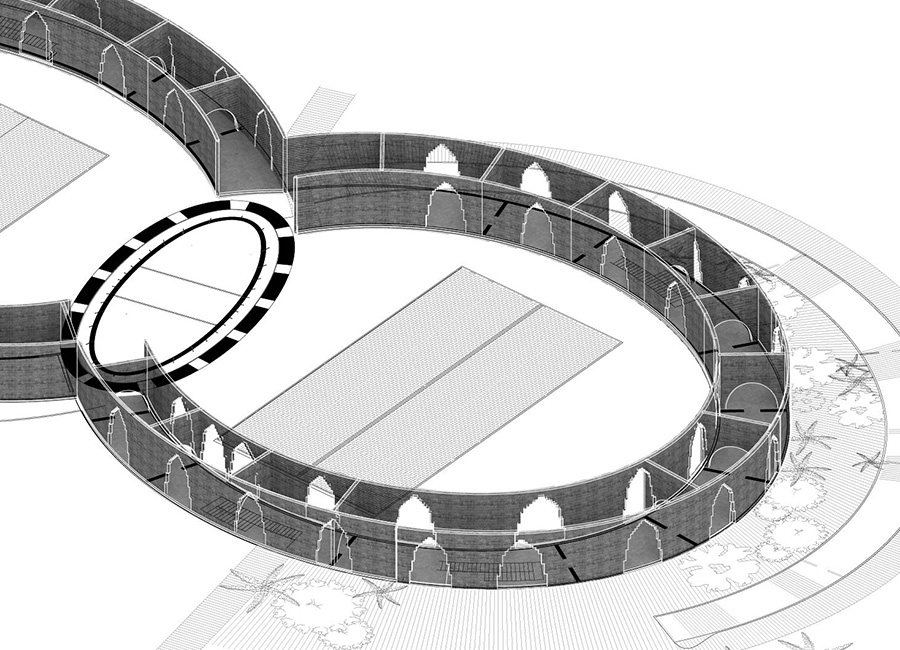
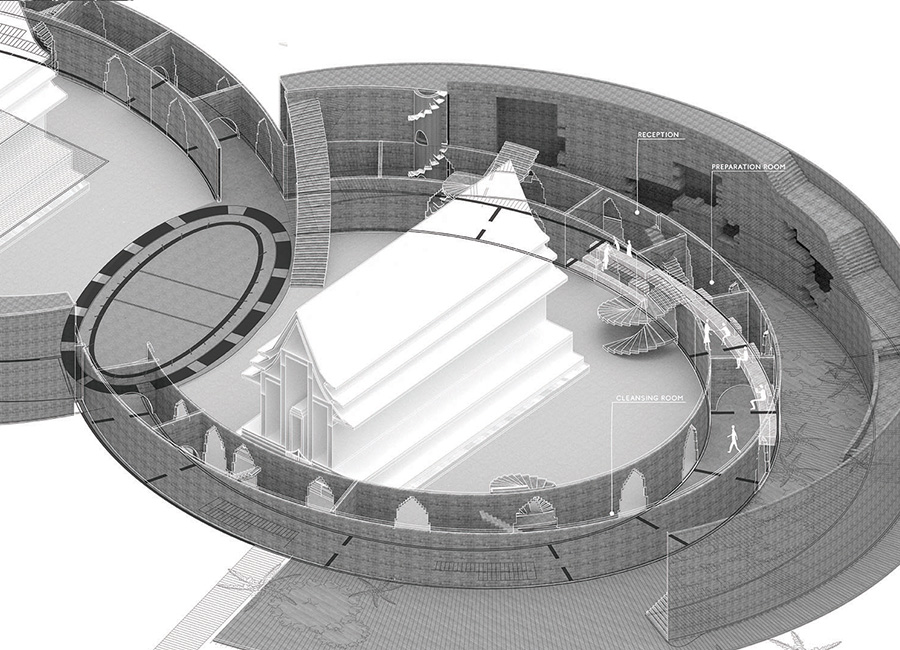
kokocrunsh

diff --git a/sanctuarys.html b/sanctuarys.html
@@ -143,25 +143,40 @@
             </div>
         </div>
 
-        <!--Define and Ideate -->
+        <!--Define -->
 
         <div class="project-header" id="Define">
             <p class="text-center">Define</p>
             <p class="display-8">
                 <b class="display-7">Challenges: </b>
-                Based on the research, In the past, temples served as multifaceted hubs for not only religious
-                activities but also educational centers, tourist attractions, art conservatories, warehouses, and more.
-                However, in the present generation, people's connection to temples has waned, and instead, they are more
-                inclined to connect with Wi-Fi, leading to the abandonment of some temples.
+                Research shows that in the past, temples were multifunctional, serving not just as religious sites but
+                also as educational centers, tourist attractions, art conservatories, and storage spaces. Today, people
+                are less connected to temples and more focused on Wi-Fi, resulting in the abandonment of some temples.
             </p>
             <p class="display-8">
                 <b class="display-7">Pain Points: </b>
-                The lost in connection between temple and thai people <br>-The idea of going to temple has been view as
-                "ineffectual" and out dated - The designed of temples doesn't match today life.
+            <div class="row display-7">
+                <div class="col col-md-4">
+                    <ul>
+                        <li>The lost in connection between temple and thai people</li>
+                    </ul>
+                </div>
+                <div class="col col-md-4">
+                    <ul>
+                        <li>The idea of going to temple has been view as
+                            "ineffectual" and out dated</li>
+                    </ul>
+                </div>
+                <div class="col col-md-4">
+                    <ul>
+                        <li>The designed of temples doesn't match today life</li>
+                    </ul>
+                </div>
+            </div>
             </p>
-             <div class="row tile">
+            <div class="row tile">
                 <iframe
-                    src="https://docs.google.com/presentation/d/e/2PACX-1vQqnkk4n9NA3BSfPlPl18CJxESVLNQwynjWhboVNBjj8JStAsJrMPDp2HIp-AP3zt74fHtvwWHaycA7/embed?start=false&loop=false&delayms=3000" 
+                    src="https://docs.google.com/presentation/d/e/2PACX-1vQqnkk4n9NA3BSfPlPl18CJxESVLNQwynjWhboVNBjj8JStAsJrMPDp2HIp-AP3zt74fHtvwWHaycA7/embed?start=false&loop=false&delayms=3000"
                     frameborder="0" width="960" height="569" allowfullscreen="true" mozallowfullscreen="true"
                     webkitallowfullscreen="true"></iframe>
             </div>
@@ -172,80 +187,58 @@
         <div class="project-header" id="Ideate">
             <p class="text-center">Ideate</p>
             <p class="display-8">
-                TBC.
+                During the ideation phase, I generated multiple solutions to address the identified pain points, one of which involved creating architectural designs by diversifying a single model into various forms
             </p>
 
         </div>
         <div class="row tile">
-            <div class="col-md-4 col-sm-4 tile-item tile" data-bs-toggle="modal" data-bs-target="#workCarouselModal"
-                data-bs-set-active="slide1">
-                <div class="tile-item-caption d-flex align-items-center justify-content-center h-100 w-100 text-white">
-                </div>
-                <img class="img-fluid tile-image" src="assets/img/portfolio/chinat/ct_mock1.png" alt="..." />
+            <div class="col-md-4 chinatown-tile">
+                <img class="img-fluid tile-image" src="assets/img/portfolio/ss/sspp1.jpg" alt="..." />
             </div>
-            <div class="col-md-4 col-sm-4 tile-item tile" data-bs-toggle="modal" data-bs-target="#workCarouselModal"
-                data-bs-set-active="slide2">
-                <div class="tile-item-caption d-flex align-items-center justify-content-center h-100 w-100 text-white">
-                </div>
-                <img class="img-fluid tile-image" src="assets/img/portfolio/chinat/ct_mock2.png" alt="..." />
+            <div class="col-md-4 chinatown-tile">
+                <img class="img-fluid tile-image" src="assets/img/portfolio/ss/sspp2.jpg" alt="..." />
             </div>
-            <div class="col-md-4 col-sm-4 tile-item tile" data-bs-toggle="modal" data-bs-target="#workCarouselModal"
-                data-bs-set-active="slide2">
-                <div class="tile-item-caption d-flex align-items-center justify-content-center h-100 w-100 text-white">
-                </div>
-                <img class="img-fluid tile-image" src="assets/img/portfolio/chinat/ct_mock3.png" alt="..." />
+            <div class="col-md-4 chinatown-tile">
+                <img class="img-fluid tile-image" src="assets/img/portfolio/ss/sspp3.jpg" alt="..." />
             </div>
+            <div class="col-md-4 chinatown-tile">
+                <img class="img-fluid tile-image" src="assets/img/portfolio/ss/sspp4.jpg" alt="..." />
+            </div>
+            <div class="col-md-4 chinatown-tile">
+                <img class="img-fluid tile-image" src="assets/img/portfolio/ss/sspp5.jpg" alt="..." />
+            </div>
+            <div class="col-md-4 chinatown-tile">
+                <img class="img-fluid tile-image" src="assets/img/portfolio/ss/sspp6.jpg" alt="..." />
+            </div>
+            
         </div>
         <!-- Mock up -->
 
         <div class="project-header" id="Prototype">
             <p class="text-center">Prototype and Sketches</p>
             <p class="display-8">
-                The abandoned temple has left with these 2 existing sanctuaries which I decided to keep and create
-                symmetrical enclosure space around them to create a clear boundary line and set up a clear architecture
-                hierarchy.
+                I preserved the two existing sanctuaries in the abandoned temple and enclosed them with a symmetrical
+                space to establish clear architectural boundaries.<br> The outer ring features green spaces, creating a
+                protective shield from the chaos of the outside world.
             </p>
-            <div class="row tile">
-                <div class="col-md-12 tile-item tile" data-bs-toggle="modal" data-bs-target="#workCarouselModal"
-                    data-bs-set-active="slide1">
-                    <div
-                        class="tile-item-caption d-flex align-items-center justify-content-center h-100 w-100 text-white">
-                    </div>
-                    <img class="img-fluid tile-image" src="assets/img/portfolio/ss/ss02.jpg" alt="..." />
-                </div>
+           
+            <div class="col-md-12 chinatown-tile">
+                <img class="img-fluid tile-image" src="assets/img/portfolio/ss/sspp7.jpg" alt="..." />
             </div>
-            <p class="display-8">
-                On the 2nd outer ring, there are green spaces that create a kind of green shield protecting people
-                inside to the chaotic outer world.
-            </p>
-            <div class="row tile">
-                <div class="col-md-12 tile-item tile" data-bs-toggle="modal" data-bs-target="#workCarouselModal"
-                    data-bs-set-active="slide1">
-                    <div
-                        class="tile-item-caption d-flex align-items-center justify-content-center h-100 w-100 text-white">
-                    </div>
+                <div class="col-md-12 chinatown-tile">
                     <img class="img-fluid tile-image" src="assets/img/portfolio/ss/sneakpeek01.jpg" alt="..." />
                 </div>
-            </div>
-            <p class="display-8">
-
-                Zooming to the floor plan,( 2nd floor plan) ,the architecture is basically made out of 2 rings which are
-                the inner and outer ring.
-                On the inner ring I decide to use the wall as room.
-
-                By doing so ,people inside the room would be cut off from the internet,forcing them to focus on the
-                present surroundings or themselves
-            </p>
-            <div class="row tile">
-                <div class="col-md-12 tile-item tile" data-bs-toggle="modal" data-bs-target="#workCarouselModal"
-                    data-bs-set-active="slide1">
-                    <div
-                        class="tile-item-caption d-flex align-items-center justify-content-center h-100 w-100 text-white">
-                    </div>
-                    <img class="img-fluid tile-image" src="assets/img/portfolio/ss/ss01.jpg" alt="..." />
+                <div class="col-md-12 chinatown-tile">
+                    <img class="img-fluid tile-image" src="assets/img/portfolio/ss/ss02.jpg" alt="..." />
                 </div>
+            <p class="display-8">
+                In the 2nd-floor plan, the architecture consists of two rings: an inner and an outer ring. The inner
+                ring is designed with walls to create rooms, disconnecting people from the internet and encouraging them
+                to focus on their surroundings and themselves.
+            </p>
+            <div class="col-md-12 chinatown-tile">
+                <img class="img-fluid tile-image" src="assets/img/portfolio/ss/ss01.jpg" alt="..." />
             </div>
-
         </div>
 
         <!-- Final -->
@@ -255,26 +248,69 @@
             <div class="project-header">
                 <p class="text-center">Final</p>
             </div>
-            
+
             <p class="text-center">
-                <b class="">The outer ring: </b>
-                The main entrance is an elevated ramp, providing both an escape from the outside world and a space for people to interact with the design.
+                <b class="">The outer rings: </b>
+                The main entrance is an elevated ramp, providing both an escape from the outside world and a space for
+                people to interact with the design.
             </p>
             <div class="col-md-6 chinatown-tile">
-                <img class="img-fluid tile-image" src="assets/img/portfolio/ss/ss01.jpg" alt="..." />
+                <img class="img-fluid tile-image" src="assets/img/portfolio/ss/ssfinal01.jpg" alt="..." />
             </div>
             <div class="col-md-6 chinatown-tile">
                 <img class="img-fluid tile-image" src="assets/img/portfolio/ss/ssfinal02.jpg" alt="..." />
             </div>
-            <p class="text-center">
+            <p class="text-center mt-5 mb-5">
                 <b class="">The clense room: </b>
-                Once they are inside the inner ring, they are forced to go through the cleansing process. Which include the reception where they must sign in ,the preparation room in which they are gonna be offered some tea, and relax and detox from the inside out. Then the cleanse room where they have to clean up and change their cloth., This process is preparing them for a world without the internet
+                After entering the inner ring, visitors undergo a cleansing process, starting with a reception where they sign in. Next, they proceed to the preparation room for tea, relaxation, and detoxification. Finally, in the cleanse room, they change their clothes and clean up, all in preparation for a Wi-Fi-free environment
             </p>
             <div class="col-md-12 chinatown-tile">
                 <img class="img-fluid tile-image" src="assets/img/portfolio/ss/ssfinal03.jpg" alt="..." />
             </div>
             <div class="col-md-12 chinatown-tile">
                 <img class="img-fluid tile-image" src="assets/img/portfolio/ss/ssfinal04.jpg" alt="..." />
+            </div>
+            <p class="text-center mt-5 mb-5">
+                <b class="">The inner rings: </b>
+                After completing the cleaning process, visitors can explore hidden rooms in the wall, each offering unique experiences. Some rooms allow users to engage with different sounds, corresponding to the changing ambiance throughout the day and night
+            </p>
+            <p class="text-center">Light engagement</p>
+            <div class="col-md-6 chinatown-tile">
+                <img class="img-fluid tile-image" src="assets/img/portfolio/ss/ssfinal05.jpg" alt="..." />
+            </div>
+            <div class="col-md-6 chinatown-tile">
+                <img class="img-fluid tile-image" src="assets/img/portfolio/ss/ssfinal06.jpg" alt="..." />
+            </div>
+            <div class="col-md-12 chinatown-tile">
+                <img class="img-fluid tile-image" src="assets/img/portfolio/ss/ssfinal09.gif" alt="..." />
+            </div>
+            <p class="text-center mt-5 mb-3">Sounds engagement</p>
+            <div class="col-md-6 chinatown-tile">
+                <img class="img-fluid tile-image" src="assets/img/portfolio/ss/ssfinal07.jpg" alt="..." />
+            </div>
+            <div class="col-md-6 chinatown-tile">
+                <img class="img-fluid tile-image" src="assets/img/portfolio/ss/ssfinal08.jpg" alt="..." />
+            </div>
+            <div class="ratio ratio-16x9">
+                <iframe src="https://www.youtube.com/embed/OgLRDAn7vk8?si=uIR_IFYX8jtWFmP6" title="YouTube video player"
+                    frameborder="0"
+                    allow="accelerometer; autoplay; clipboard-write; encrypted-media; gyroscope; picture-in-picture; web-share"
+                    allowfullscreen></iframe>
+            </div>
+            <p class="text-center mt-5 mb-5">
+                <b class="">The center: </b>
+                The central room is a communal space for physical interaction, furnished with books and references along the spiral ramps to educate visitors as they ascend 
+            </p>
+            <p class="text-center mt-5 mb-3">On the ground floor, there's a reading area for learning about historical coping strategies, temple structures, and the Buddhist religion</p>
+            <div class="col-md-6 chinatown-tile">
+                <img class="img-fluid tile-image" src="assets/img/portfolio/ss/ssfinal09.jpg" alt="..." />
+            </div>
+            <div class="col-md-6 chinatown-tile">
+                <img class="img-fluid tile-image" src="assets/img/portfolio/ss/sneakpeek02.jpg" alt="..." />
+            </div>
+            <p class="text-center mt-5 mb-3">The 1st floor houses a debating room, encouraging meaningful interaction and staying present in the moment</p>
+            <div class="col-md-12 chinatown-tile">
+                <img class="img-fluid tile-image" src="assets/img/portfolio/ss/ssfinal10.jpg" alt="..." />
             </div>
         </div>
 
